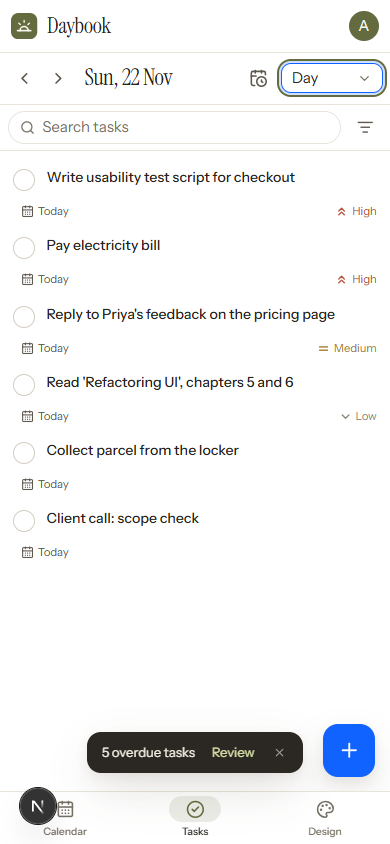
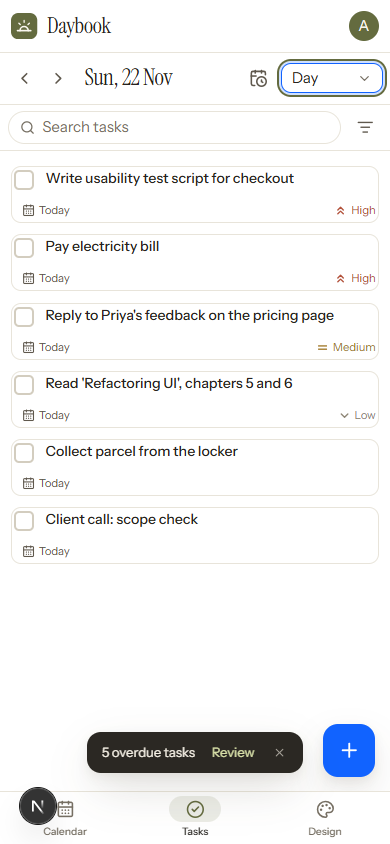
Phone Tasks: Week as day columns, square checkboxes, bordered cards

diff --git a/components/tasks/TasksScreen.tsx b/components/tasks/TasksScreen.tsx
@@ -18,7 +18,7 @@ import type { DateKey, Task } from "@/lib/types";
 import { MonthNav } from "./MonthNav";
 import { FilterMenu, TaskSearch, activeFilterCount } from "./TaskControls";
 import { TaskCard } from "./TaskCard";
-import { buildGroups, buildWeekGroups, columnOrderFor, dayKey, matches, passesFilters } from "./taskModel";
+import { buildGroups, columnOrderFor, dayKey, matches, passesFilters } from "./taskModel";
 
 export function TasksScreen() {
   const status = useData((s) => s.status);
@@ -109,7 +109,7 @@ export function TasksScreen() {
 
   const anchor = weekAnchor ?? selected ?? today;
   /** Desktop week/day: one column per day, exactly like the calendar. Phones keep the single list. */
-  const columnsMode = !mobile && view !== "month";
+  const columnsMode = view !== "month" && (!mobile || view === "week");
   const listMap = useMemo(() => new Map(lists.map((l) => [l.id, l])), [lists]);
   const nFilters = activeFilterCount(filters);
   const filtering = nFilters > 0 || query.trim().length > 0;
@@ -146,12 +146,8 @@ export function TasksScreen() {
       counts.set(t.due, (counts.get(t.due) ?? 0) + 1);
     }
     return {
-      // the list (month view, phones): by date. A single day lists only that day; a week lists its own days, empty ones too.
-      groups: columnsMode
-        ? []
-        : view === "week"
-          ? buildWeekGroups([...outside, ...done.filter((t) => t.due && daySet.has(t.due))], days, today, fmt, sort)
-          : buildGroups(view === "day" ? outside.filter((t) => t.due === days[0]) : outside, today, fmt, sort, showUndated),
+      // the list (month view, and a day on a phone): by date. A single day lists only that day.
+      groups: columnsMode ? [] : buildGroups(view === "day" ? outside.filter((t) => t.due === days[0]) : outside, today, fmt, sort, showUndated),
       byDay,
       completed: done,
       counts,
@@ -168,19 +164,8 @@ export function TasksScreen() {
     if (col) revealColumn(sc, col);
   }, [status, columnsMode, days, today]);
 
-  // phone week list: open on today's day when it is in this week, otherwise at the top
-  useEffect(() => {
-    const sc = scrollRef.current;
-    if (status !== "ready" || columnsMode || view !== "week" || !sc) return;
-    sc.scrollTop = 0;
-    sc.querySelector<HTMLElement>(`[data-day-section="${today}"]`)?.scrollIntoView({ block: "start" });
-  }, [status, columnsMode, view, days, today]);
-
   const scrollToDay = useCallback((d: DateKey) => {
     requestAnimationFrame(() => {
-      // a week list has a section per day (even an empty one); otherwise find the day's first card
-      const section = scrollRef.current?.querySelector<HTMLElement>(`[data-day-section="${d}"]`);
-      if (section) return section.scrollIntoView({ behavior: "smooth", block: "start" });
       const el = scrollRef.current?.querySelector<HTMLElement>(`[data-due="${d}"]`);
       el?.scrollIntoView({ behavior: "smooth", block: "center" });
     });
@@ -244,7 +229,7 @@ export function TasksScreen() {
   const gridClass = layout === "grid" ? "grid grid-cols-1 gap-3 sm:grid-cols-2 xl:grid-cols-3 2xl:grid-cols-4" : "mx-auto grid max-w-3xl grid-cols-1 gap-2.5";
   const single = days.length === 1;
   /** A day never gets narrower than this, so on a small window the week scrolls sideways. */
-  const DAY_MIN_WIDTH = 200;
+  const DAY_MIN_WIDTH = mobile ? 176 : 200;
   const colTemplate = { gridTemplateColumns: `repeat(${days.length}, minmax(${DAY_MIN_WIDTH}px, 1fr))` };
 
   return (
@@ -314,7 +299,7 @@ export function TasksScreen() {
         {/* the day / date row lives inside the scroller so it is exactly as wide as the columns */}
         <div className="sticky top-0 z-10 w-max min-w-full bg-bg">
       {view === "day" ? null : view !== "month" ? (
-        <DayHeaders days={days} selected={selected} onPick={pick} minColumnWidth={columnsMode ? DAY_MIN_WIDTH : undefined} badge={columnsMode ? undefined : (d) => ((counts.get(d) ?? 0) > 0 ? <span>{counts.get(d)}</span> : null)} />
+        <DayHeaders days={days} selected={selected} onPick={pick} minColumnWidth={DAY_MIN_WIDTH} badge={columnsMode ? undefined : (d) => ((counts.get(d) ?? 0) > 0 ? <span>{counts.get(d)}</span> : null)} />
       ) : (
         <div className="shrink-0 border-b border-border px-3 py-3 md:px-6">
           <div className="mx-auto max-w-[88rem]">
@@ -458,11 +443,11 @@ export function TasksScreen() {
                     if (id) moveTask(id, d, index);
                   }}
                   className={cn(
-                    "flex min-h-[19rem] min-w-0 flex-col gap-0 border-l border-border py-2 transition-colors duration-150 first:border-l-0",
+                    "flex min-h-[19rem] min-w-0 flex-col gap-0 border-l border-border px-1.5 py-2 transition-colors duration-150 first:border-l-0",
                     d === today && "bg-surface"
                   )}
                 >
-                  <div className="flex flex-col gap-0">{items}</div>
+                  <div className="flex flex-col gap-1.5">{items}</div>
                   <button
                     onClick={() => openQuickAdd({ due: d })}
                     className="mt-auto flex items-center justify-center gap-1.5 rounded-lg py-2 text-xs font-medium text-text-3 transition-colors hover:bg-surface-2 hover:text-text"
@@ -530,33 +515,23 @@ export function TasksScreen() {
                   <EmptyState icon={<CheckCheck className="size-5" />} title="Nothing left to do" body="Every task in view is complete." />
                 ))}
               {groups.map((g) => (
-                <section key={g.id} aria-label={g.label} data-day-section={view === "week" ? g.id : undefined} className={cn("scroll-mt-24", view === "day" && "pt-4")}>
-                  {/* in the week list the day cells above already stick, so these headings scroll with the page */}
+                <section key={g.id} aria-label={g.label} className={cn(view === "day" && "pt-4")}>
                   {/* a single day already has its date in the header, so it gets no heading of its own */}
-                  <div className={cn("-mx-3 flex items-center gap-2.5 bg-bg/90 px-3 pb-2 pt-4 md:-mx-6 md:px-6", view !== "week" && "sticky top-0 z-10 backdrop-blur", view === "day" && "hidden")}>
+                  <div className={cn("sticky top-0 z-10 -mx-3 flex items-center gap-2.5 bg-bg/90 px-3 pb-2 pt-4 backdrop-blur md:-mx-6 md:px-6", view === "day" && "hidden")}>
                     <h2 className={cn("text-xs font-semibold uppercase tracking-[0.12em]", g.tone === "accent" ? "text-accent" : "text-text-2")}>{g.label}</h2>
-                    <span className="tnum rounded-full bg-surface-2 px-1.5 text-[0.6875rem] font-medium leading-5 text-text-2">{g.tasks.filter((t) => t.status === "needsAction").length}</span>
+                    <span className="tnum rounded-full bg-surface-2 px-1.5 text-[0.6875rem] font-medium leading-5 text-text-2">{g.tasks.length}</span>
                     {g.hint && <span className="hidden text-xs text-text-3 sm:inline">{g.hint}</span>}
                     <span className="h-px flex-1 bg-border" />
                   </div>
-                  {g.tasks.length === 0 ? (
-                    <div className="flex items-center justify-between py-1 text-sm text-text-3">
-                      <span>Nothing due</span>
-                      <button onClick={() => openQuickAdd({ due: g.id })} className="font-medium text-accent hover:underline">
-                        Add task
-                      </button>
-                    </div>
-                  ) : (
-                    <div className={gridClass}>
-                      {g.tasks.map((t) => (
-                        <TaskCard key={t.id} task={t} list={listMap.get(t.listId)} selectedDay={selected} />
-                      ))}
-                    </div>
-                  )}
+                  <div className={gridClass}>
+                    {g.tasks.map((t) => (
+                      <TaskCard key={t.id} task={t} list={listMap.get(t.listId)} selectedDay={selected} />
+                    ))}
+                  </div>
                 </section>
               ))}
 
-              {showCompleted && view !== "day" && (columnsMode || view !== "week") && (
+              {showCompleted && view !== "day" && !(mobile && view === "week") && (
                 <section className="mt-8" aria-label="Completed">
                   <button onClick={() => setCompletedOpen(!completedOpen)} aria-expanded={completedOpen} className="flex w-full items-center gap-2.5 rounded-lg py-2 text-left">
                     <ChevronDown className={cn("size-4 text-text-3 transition-transform", !completedOpen && "-rotate-90")} />

diff --git a/components/tasks/TaskLayers.tsx b/components/tasks/TaskLayers.tsx
@@ -3,7 +3,7 @@ import { useEffect, useMemo, useRef, useState } from "react";
 import { AlignLeft, Tag, Trash2, X, Check, Plus } from "lucide-react";
 import { Button, IconButton } from "@/components/ui/Button";
 import { Drawer, Modal } from "@/components/ui/Modal";
-import { Field, Input, RoundCheck, Segmented, Textarea } from "@/components/ui/Controls";
+import { Field, Input, TaskCheck, Segmented, Textarea } from "@/components/ui/Controls";
 import { Select } from "@/components/ui/Menu";
 import { hexOf } from "@/lib/colors";
 import { cn } from "@/lib/cn";
@@ -211,7 +211,7 @@ function QuickAddForm({ initialDue, initialList, onDone }: { initialDue: DateKey
         </div>
         <div className="border-t border-border pt-4">
         <div className="flex items-center gap-3">
-          <RoundCheck checked={completed} onChange={setCompleted} label="Mark the task as complete" />
+          <TaskCheck checked={completed} onChange={setCompleted} label="Mark the task as complete" />
           <span className="cursor-pointer text-sm text-text-2" onClick={() => setCompleted((v) => !v)}>
             {completed ? "Task completed" : "Mark the task as complete"}
           </span>
@@ -498,7 +498,7 @@ function SubtaskRow({ title, done, onToggle, onSave, onDelete }: { title: string
   };
   return (
     <div className="flex h-9 items-center gap-2 rounded-md border border-border bg-surface px-3 transition-colors hover:border-border-strong focus-within:border-semantic-primary">
-      <RoundCheck checked={done} onChange={() => onToggle()} label={`Complete ${title}`} size={18} />
+      <TaskCheck checked={done} onChange={() => onToggle()} label={`Complete ${title}`} size={18} />
       {editing ? (
         <input
           autoFocus

diff --git a/components/tasks/TaskCard.tsx b/components/tasks/TaskCard.tsx
@@ -1,6 +1,6 @@
 "use client";
 import { CalendarDays, ChevronDown, ChevronUp, ChevronsUp, Equal } from "lucide-react";
-import { RoundCheck } from "@/components/ui/Controls";
+import { TaskCheck } from "@/components/ui/Controls";
 import { cn } from "@/lib/cn";
 import { Tooltip } from "@/components/ui/Tooltip";
 import { useFmt, useToday } from "@/lib/hooks";
@@ -54,7 +54,7 @@ export function TaskCard({ task, selectedDay, compact }: { task: Task; list?: Ta
       }}
       className={cn(
         compact ? "group relative flex scroll-mt-24 cursor-pointer flex-col" : "group relative flex scroll-mt-24 cursor-pointer flex-col transition-[background,transform] duration-150",
-        "hover:bg-surface-2 focus-visible:outline-2",
+        "rounded-md border border-border hover:bg-surface-2 focus-visible:outline-2",
         isSelectedDay ? "ring-2 ring-accent/25" : "",
         done && "bg-surface/60"
       )}
@@ -63,7 +63,7 @@ export function TaskCard({ task, selectedDay, compact }: { task: Task; list?: Ta
       <div className="flex items-start gap-3">
         <Tooltip label={done ? "Reopen task" : "Mark as complete"} delay={0}>
           <div className="pt-px" onClick={(e) => e.stopPropagation()}>
-            <RoundCheck checked={done} onChange={() => void toggle(task.id)} label={done ? `Reopen ${task.title}` : `Complete ${task.title}`} />
+            <TaskCheck checked={done} onChange={() => void toggle(task.id)} label={done ? `Reopen ${task.title}` : `Complete ${task.title}`} />
           </div>
         </Tooltip>
         <div className="min-w-0 flex-1">

diff --git a/components/design/DesignSystem.tsx b/components/design/DesignSystem.tsx
@@ -2,7 +2,7 @@
 import { useEffect, useRef, useState, type ReactNode } from "react";
 import { AlertTriangle, ArrowDownUp, Bell, Check, CheckCircle2, CloudOff, Download, ListFilter, Plus, RefreshCw, Search, Settings, Trash2, X, CalendarX2, Pencil } from "lucide-react";
 import { Button, IconButton } from "@/components/ui/Button";
-import { Badge, ColorCheck, EmptyState, Field, Input, RoundCheck, Segmented, Skeleton, Switch, Textarea } from "@/components/ui/Controls";
+import { Badge, ColorCheck, EmptyState, Field, Input, TaskCheck, Segmented, Skeleton, Switch, Textarea } from "@/components/ui/Controls";
 import { DateField, MonthPanel, TimeSelect } from "@/components/ui/DatePicker";
 import { Drawer, LeftSheet, Modal } from "@/components/ui/Modal";
 import { Menu, Select } from "@/components/ui/Menu";
@@ -527,7 +527,7 @@ function Forms() {
         <Block label="Choices">
           <div className="space-y-5">
             <div className="flex items-center gap-4">
-              <RoundCheck checked={checked} onChange={setChecked} label="Complete task" />
+              <TaskCheck checked={checked} onChange={setChecked} label="Complete task" />
               <span className="text-sm text-text-2">Completion circle (tap me)</span>
             </div>
             <div className="flex flex-wrap items-center gap-3">

diff --git a/components/ui/Controls.tsx b/components/ui/Controls.tsx
@@ -24,8 +24,8 @@ export function Field({ label, children, hint, className }: { label: string; chi
   );
 }
 
-/** Circular completion control used on task cards. */
-export function RoundCheck({ checked, onChange, label, size = 22 }: { checked: boolean; onChange: (v: boolean) => void; label: string; size?: number }) {
+/** Square completion checkbox used on task cards, in the task editor and for subtasks. */
+export function TaskCheck({ checked, onChange, label, size = 20 }: { checked: boolean; onChange: (v: boolean) => void; label: string; size?: number }) {
   return (
     <button
       type="button"
@@ -38,7 +38,7 @@ export function RoundCheck({ checked, onChange, label, size = 22 }: { checked: b
       }}
       style={{ width: size, height: size }}
       className={cn(
-        "group/check relative flex shrink-0 items-center justify-center rounded-full border-[1.5px] transition-all duration-150",
+        "group/check relative flex shrink-0 items-center justify-center rounded-[5px] border-2 transition-all duration-150",
         checked ? "border-transparent bg-[color-mix(in_srgb,var(--semantic-primary)_16%,var(--surface))] text-semantic-primary" : "border-border-strong bg-surface hover:border-accent hover:bg-accent-soft"
       )}
     >

diff --git a/components/home/Hero.tsx b/components/home/Hero.tsx
@@ -4,7 +4,7 @@ import { useRouter } from "next/navigation";
 import { Check } from "lucide-react";
 import { LogoMark } from "@/components/shell/Logo";
 import { Button } from "@/components/ui/Button";
-import { RoundCheck } from "@/components/ui/Controls";
+import { TaskCheck } from "@/components/ui/Controls";
 import { cn } from "@/lib/cn";
 import { isSupabaseConfigured } from "@/lib/supabase/config";
 import { AuthDialog } from "./AuthDialog";
@@ -145,7 +145,7 @@ function Preview() {
           {TASKS.map((k) => (
             <div key={k.t} className="flex items-center gap-3 rounded-md px-1 py-1.5">
               <span className="pointer-events-none">
-                <RoundCheck checked={k.done} onChange={() => {}} label={k.t} size={20} />
+                <TaskCheck checked={k.done} onChange={() => {}} label={k.t} size={20} />
               </span>
               <span className={cn("text-[0.9375rem] font-medium", k.done && "line-through decoration-text")}>{k.t}</span>
             </div>

diff --git a/components/tasks/taskModel.ts b/components/tasks/taskModel.ts
@@ -65,17 +65,6 @@ export function sorter(sort: TaskSort): (a: Task, b: Task) => number {
  * One unified collection, organised by date. Sorting and filtering change
  * which tasks are shown and their order inside a group, never the grouping.
  */
-/** A week as a list: one group for every day of it, empty days included, in order. */
-export function buildWeekGroups(tasks: Task[], days: DateKey[], today: DateKey, fmt: Fmt, sort: TaskSort): TaskGroup[] {
-  const cmp = sorter(sort);
-  return days.map((d) => ({
-    id: d,
-    label: fmt.dayLong(d),
-    tone: d === today ? "accent" : "neutral",
-    tasks: tasks.filter((t) => t.due === d).sort(cmp),
-  }));
-}
-
 export function buildGroups(open: Task[], today: DateKey, fmt: Fmt, sort: TaskSort, showUndated: boolean): TaskGroup[] {
   const cmp = sorter(sort);
   const byDate = new Map<DateKey, Task[]>();

diff --git a/docs/changelog/CHANGELOG.md b/docs/changelog/CHANGELOG.md
@@ -9,25 +9,25 @@ A running record of every change requested, newest first, with screenshots. It l
 
 ---
 
-## 2026-11-22 — Week view of Tasks on a phone
+## 2026-11-22 — Phone Tasks: Week as day columns, square checkboxes, bordered cards
 
-**Asked for:** show the weekly view of tasks in mobile view.
+**Asked for:** the weekly view of tasks on a phone (it first came out as a stacked list, and was asked to look like the week view, not a list); no repeated date heading in the phone Day view; square checkboxes instead of circles; a border and 2px padding on each task card; no Completed section at the bottom of the phone Week view.
 
 **What changed**
-- On a phone, Tasks → Week now shows the seven days of the week across the top (all seven fit, no sideways scrolling, each with its task count). Before, only two day cells were visible and the list below held every task from September onward.
-- Below the day cells, one section per day of that week, in order, with that day's tasks. A day with nothing says "Nothing due" with an **Add task** link. Completed tasks of the week stay in their day, struck through. Today's heading is in the accent colour.
-- Tapping a day cell scrolls to that day's section. The list opens on today when today is in the week. The arrows move a week at a time, and Today comes back.
-- The day headings scroll with the page in this view (the day cells above stay put), so the two never overlap.
-- Desktop Week (columns), and phone Month, are unchanged.
-- Follow-up: on a phone, Tasks → Day no longer repeats the date as a heading ("Sunday, 22 November 6") above the tasks. The date is already in the header, so the list starts straight away.
+- **Phone Week** is now the same side-by-side day columns as on a laptop: one column per day, with that day's tasks, an Add task button under each, and the week scrolling sideways (about two days fit on screen). Today's column is brought into view, the arrows move a week, and tapping a day's date opens that day. Moving a task to another day by long-press and drag works as before.
+- The **Completed** list is not shown at the bottom of the phone Week view. Laptop Week still has it.
+- **Phone Day** stays a single list, and no longer repeats the date as a heading ("Sunday, 22 November 6") above the tasks; the date is already in the header.
+- **Square checkbox** everywhere a task is ticked: on cards, in the task editor, for subtasks, on the home page preview and in the design system. It is the same shape as the calendar-visibility checkbox (renamed `TaskCheck`; it was `RoundCheck`).
+- **Task cards** have a 1px border with rounded corners and keep their 2px padding. Cards now have a small gap (6px) between them in the day columns, and the columns have a little side padding, so the borders don't touch.
+- Phone Month is unchanged.
 
-**Files:** `components/tasks/TasksScreen.tsx`, `components/tasks/taskModel.ts`
+**Files:** `components/tasks/TasksScreen.tsx`, `components/tasks/TaskCard.tsx`, `components/tasks/taskModel.ts`, `components/ui/Controls.tsx` (+ `Controls.ds.md`), `components/tasks/TaskLayers.tsx`, `components/home/Hero.tsx`, `components/design/DesignSystem.tsx`
 
 **Screenshots** (`screenshots/2026-11-22-phone-week/`)
-![Week on a phone](screenshots/2026-11-22-phone-week/week.png)
-![After tapping Thursday](screenshots/2026-11-22-phone-week/week-tap-a-day.png)
-![Next week](screenshots/2026-11-22-phone-week/week-next.png)
-![Day, no repeated date heading](screenshots/2026-11-22-phone-week/day-no-heading.png)
+![Phone Week, day columns](screenshots/2026-11-22-phone-week/week-columns.png)
+![Phone Day](screenshots/2026-11-22-phone-week/day-no-heading.png)
+![Laptop Week](screenshots/2026-11-22-phone-week/desktop-week.png)
+![Task editor, square checkbox](screenshots/2026-11-22-phone-week/editor-checkbox.png)
 
 ---
 

diff --git a/components/ui/Controls.ds.md b/components/ui/Controls.ds.md
@@ -1,11 +1,11 @@
 # Controls
-Source: `Controls.tsx` (Input, Textarea, Field, RoundCheck, ColorCheck, Switch, Segmented, Badge, Skeleton, EmptyState)
+Source: `Controls.tsx` (Input, Textarea, Field, TaskCheck, ColorCheck, Switch, Segmented, Badge, Skeleton, EmptyState)
 
 **Input / Textarea** — 36px / multi-line, border turns to the accent on focus with a soft ring. Always wrap in `Field` so the label sits above.
 
 **Field** — a label above any control, with optional hint text below.
 
-**RoundCheck** — the circular completion check.
+**TaskCheck** — the square completion checkbox (same shape as ColorCheck).
 - Unchecked: grey ring.
 - Checked: light blue fill (`--semantic-primary` at 16%), blue ring, blue check.
 
